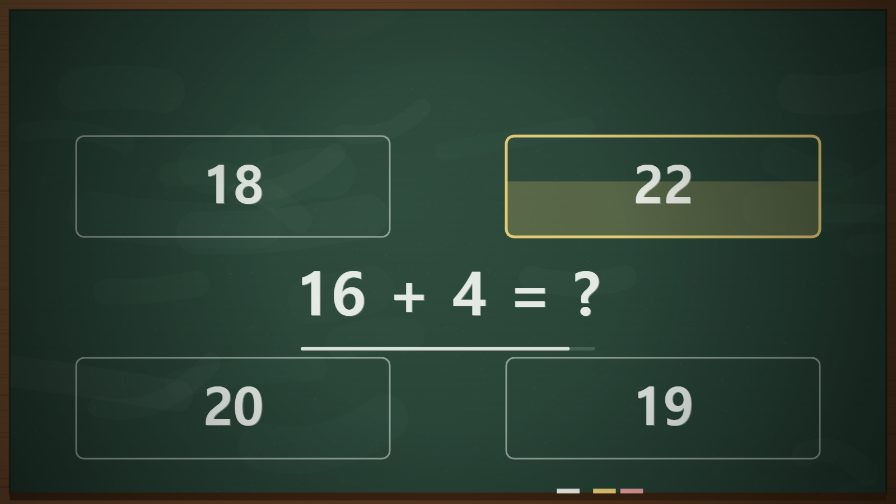
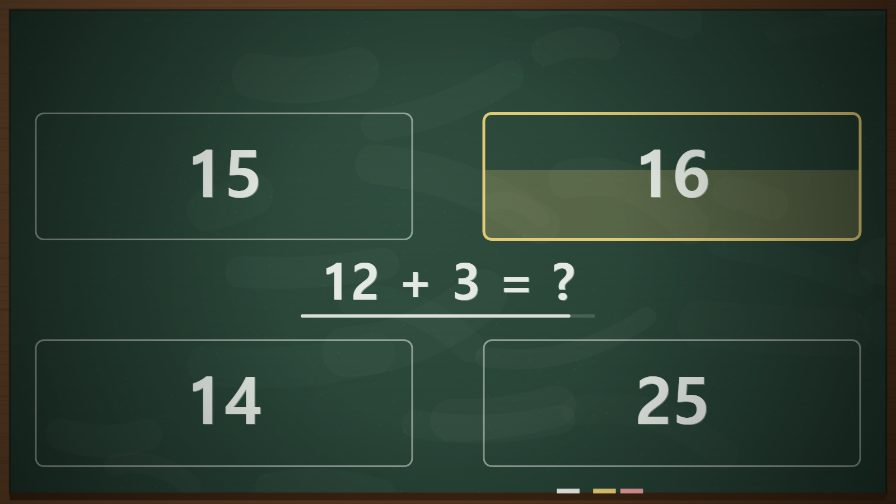
덧셈 곱셈 답 칸 키움(.36w×.2h → .42w×.25h), 칸 밖 여유 30px, 문제 글자·시간 선 위치 맞춤, 썸네일 다시 찍음

diff --git a/demo/math.html b/demo/math.html
@@ -49,7 +49,7 @@
   const GAME_S = 60;
   const DWELL = .6;      // 이만큼(초) 바라보면 고른다. 숫자를 읽는 동안 잘못 골라지지 않게 두더지보다 조금 길다
   const DECAY = 1.5;     // 눈을 떼면 칸이 줄어드는 빠르기(채우는 빠르기의 배수)
-  const LOOK_PAD = 40;   // 칸 밖으로 이만큼(px)까지 바라본 것으로 친다(시선 오차). 위아래 칸 사이가 멀어 겹치지 않는다
+  const LOOK_PAD = 30;   // 칸 밖으로 이만큼(px)까지 바라본 것으로 친다(시선 오차). 칸이 커서 여유는 조금만 둔다
   const SHOW_S = .9;     // 답을 고른 뒤 맞음·틀림을 보여 주는 시간
   const OPS = {add: '+', mul: '×'};
   const parts = new Particles(), popups = new Popups();
@@ -61,9 +61,9 @@
 
   // 칠판: 네 귀퉁이에 답 칸, 가운데에 문제(위아래 칸 사이가 멀어야 시선이 헷갈리지 않는다)
   function build({w, h}) {
-    const tw = Math.min(w * .36, 560), th = h * .2;
-    [[.26, .37], [.74, .37], [.26, .81], [.74, .81]].forEach(([fx, fy], i) => Object.assign(tiles[i], {x: fx * w, y: fy * h, w: tw, h: th}));
-    Object.assign(problem, {x: w / 2, y: h * .59, size: Math.min(w * .08, h * .12)});
+    const tw = Math.min(w * .42, 760), th = h * .25; // 처음 .36w × .2h는 작았다(사용자)
+    [[.25, .35], [.75, .35], [.25, .8], [.75, .8]].forEach(([fx, fy], i) => Object.assign(tiles[i], {x: fx * w, y: fy * h, w: tw, h: th}));
+    Object.assign(problem, {x: w / 2, y: h * .565, size: Math.min(w * .07, h * .1)});
     const frame = Math.min(w, h) * .03;
     scene.board = sprite(w, h, g => {
       const wood = g.createLinearGradient(0, 0, w, h);
@@ -198,7 +198,7 @@
     if (q.result === 'late') chalkText('시간 끝', x, y + size * .9, size * .35, '#f2a3a3');
     else if (q.result === 'wrong') chalkText('아쉬워요', x, y + size * .9, size * .35, '#f2a3a3');
     else if (!q.result) { // 문제의 남은 시간: 분필 선이 줄어든다
-      const k = Math.max(0, 1 - (t - q.born) / q.limit), bw = Math.min(view.w * .36, 520), by = y + size * .85;
+      const k = Math.max(0, 1 - (t - q.born) / q.limit), bw = Math.min(view.w * .36, 520), by = y + size * .62;
       ctx.save(); ctx.lineCap = 'round'; ctx.lineWidth = 6;
       ctx.strokeStyle = 'rgba(241,245,239,.15)'; ctx.beginPath(); ctx.moveTo(x - bw / 2, by); ctx.lineTo(x + bw / 2, by); ctx.stroke();
       ctx.strokeStyle = k * q.limit < 2 ? '#f2a3a3' : 'rgba(241,245,239,.85)';

diff --git a/docs/agent/demo-games.md b/docs/agent/demo-games.md
@@ -66,3 +66,4 @@
 - 시간: 전체 60초, 문제마다 제한 시간(당시 8초 → 끝날 무렵 4.5초). 시선이 끊긴 동안(`gazeLost`)은 시간도 멈춘다. 맞힌 수가 늘수록 어려워진다(덧셈 한 자리 → 두 자리+한 자리 → 두 자리끼리, 곱셈 2~5단 → 구구단 → 11~15단). 오답은 1·2·10 차이, 곱셈은 옆 단 값으로 헷갈리게 한다.
 - 점수: 맞히면 기본 + 빨리 맞힌 만큼 + 연속. 틀리거나 시간이 지나면 연속만 끊긴다(답을 보여 주고 다음 문제).
 - 확인: 헤드리스 Chrome(CDP)에서 마우스 이동으로 정답·오답·시간 초과가 맞게 판정되는 것을 봤고, 1600×900에서 약 60fps(시선 모델 없이). 썸네일 `img/math.jpg`는 같은 방법으로 찍었다. 실제 시선으로는 아직 안 해 봤다.
+- 칸 키움(사용자: 칸을 더 크게): 화면 폭 .36 × 높이 .2 → .42 × .25(실험 당시 값). 칸 사이가 좁아져 칸 밖 여유를 40 → 30px로 줄이고, 문제 글자와 남은 시간 선을 조금 작게·가깝게 해서 위아래 칸 사이에 들어가게 했다. 썸네일 다시 찍음.
